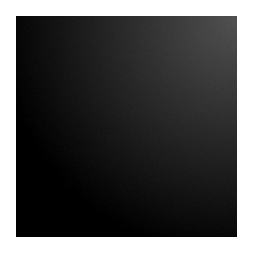
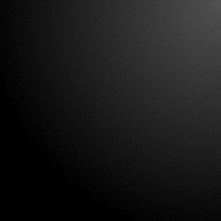
Fix and improve cannonball sprites
In reference to issue #21.

Changed region(s): [[0.0, 0.0, 1.0, 1.0]]

diff --git a/src/game/Ball.java b/src/game/Ball.java
@@ -11,15 +11,22 @@ public class Ball {
 	public static float friction = 0.5f;
 	public float angularVelocity;
 	static String ballPath = "data/cannonBall.png";
+	static String ballPathAlt = "data/cannonBallAlt.png";
 	private PImage cannonBall;
 	static public Vector gravity = Vector.mul(Vector.down(), 10f);
+	private int randBall;
 	
 	/** Constructor for a ball */
 	Ball(Vector pos, Vector scale, float angle, Vector vel, float angularVel) {
 		transform = new Transform(pos, scale, angle);
 		velocity = vel;
 		angularVelocity = angularVel;
-		this.cannonBall = gm.loadImage(ballPath);
+		randBall = PApplet.floor(gm.random(10));
+		if (randBall == 0) {
+			this.cannonBall = gm.loadImage(ballPathAlt);
+		} else {
+			this.cannonBall = gm.loadImage(ballPath);
+		}
 	}
 	
 	/** Constructor for a ball */
